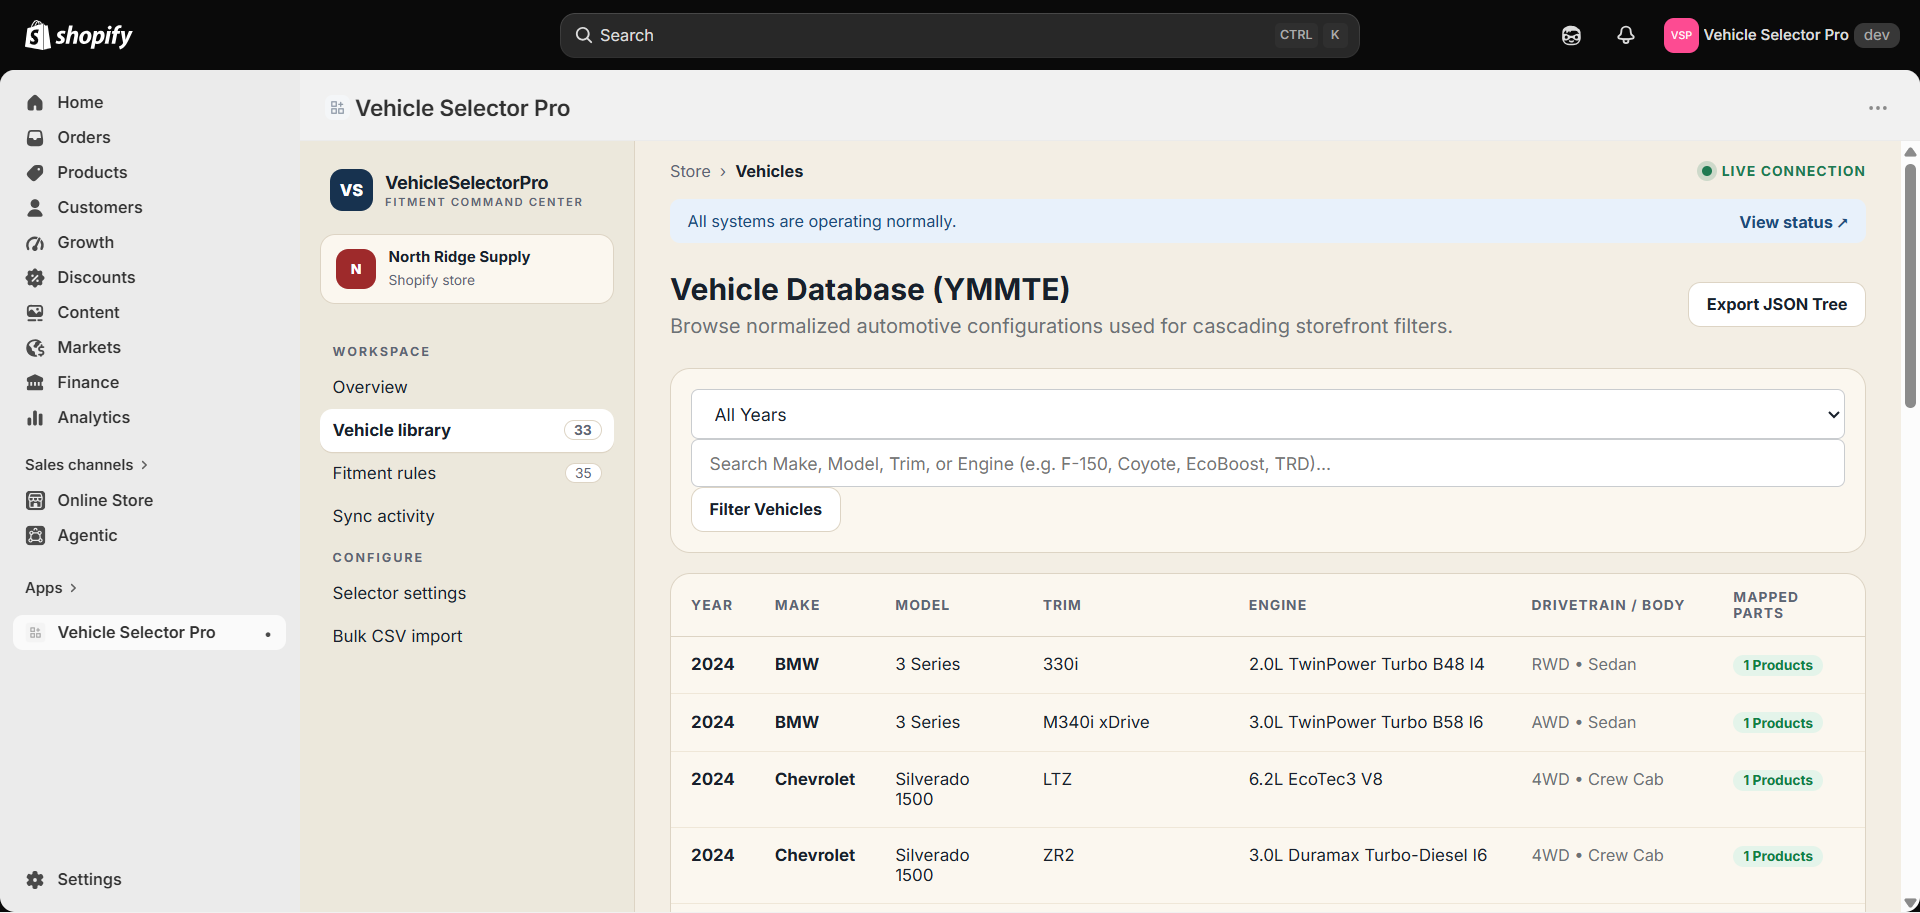
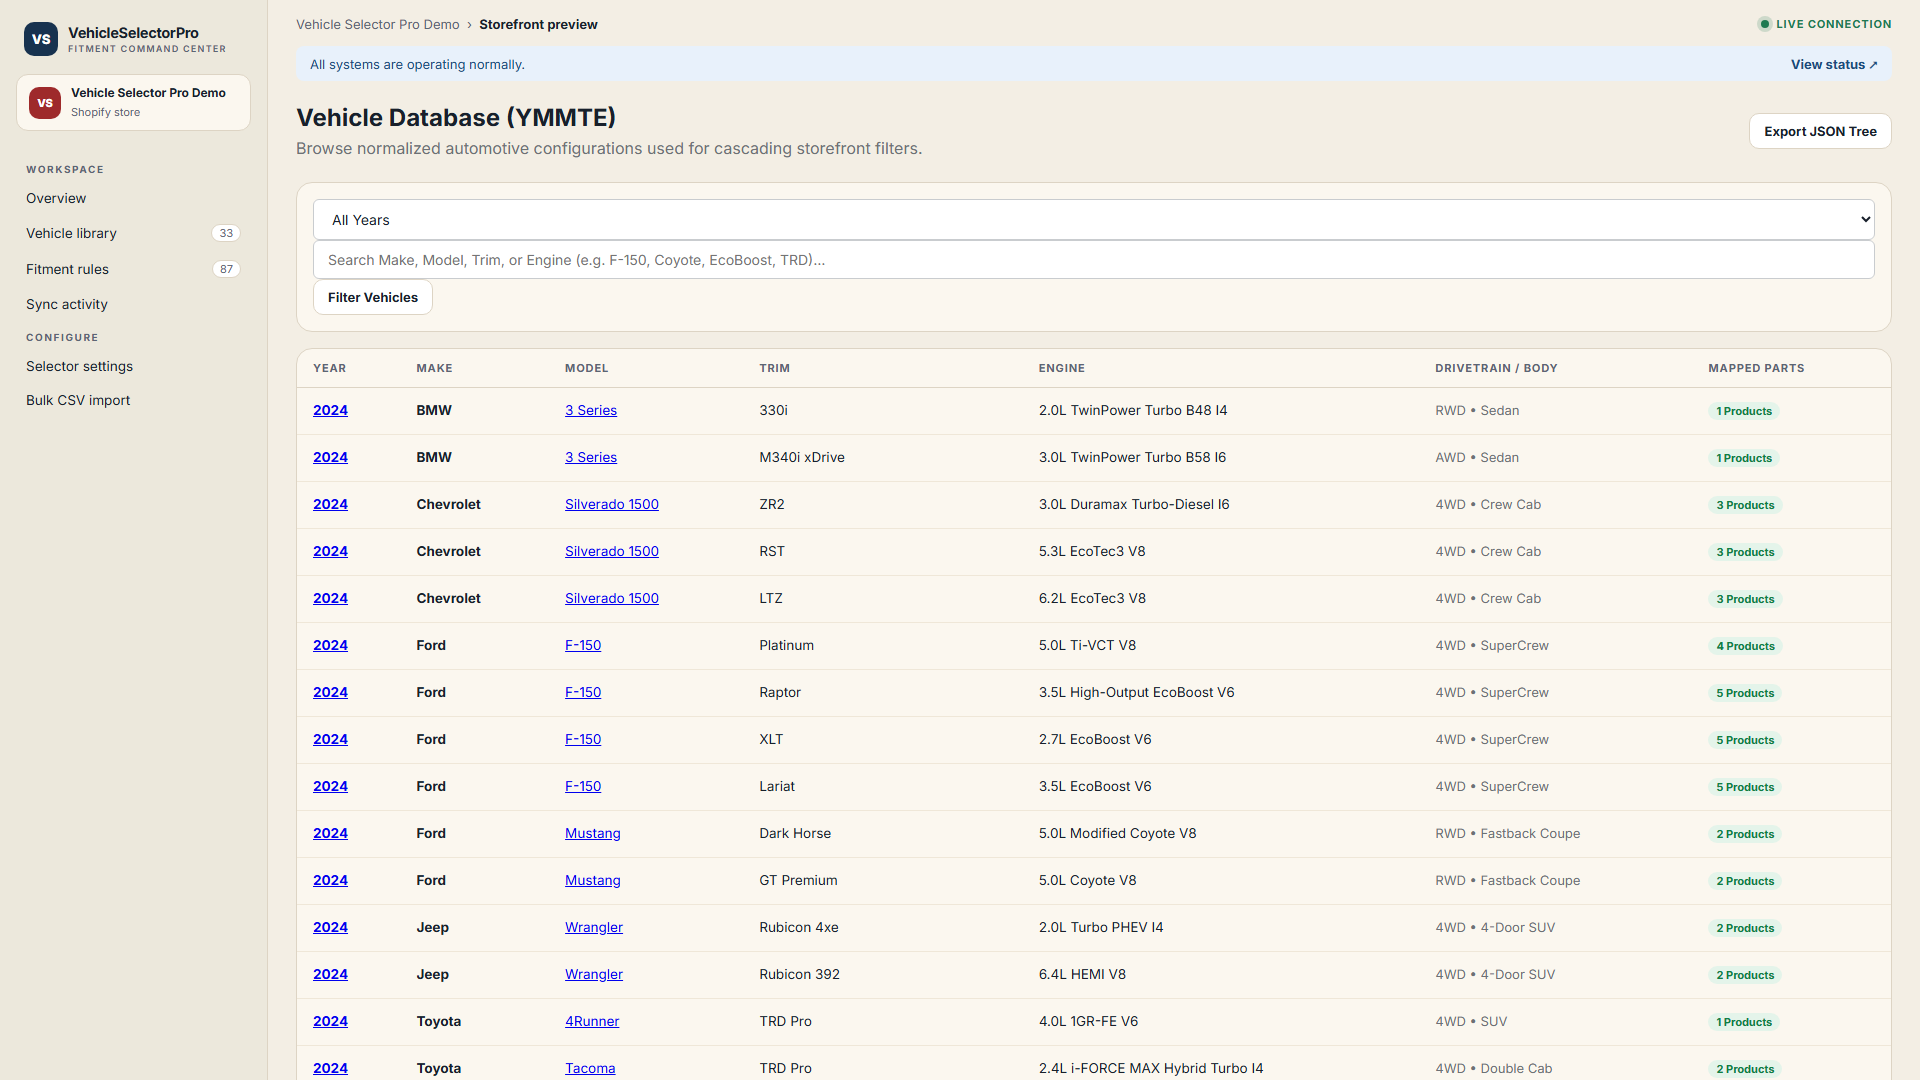
docs: refresh GitHub home page — storefront + admin screenshots, live admin preview pages
Adds a full admin preview to the demo (/demo/admin/{fitments,vehicles,settings,
imports}) so every admin page is reachable without a Shopify session, and
replaces the stale README screenshots (old 7-product catalog) with fresh live
captures: four storefront shots (home, vehicle-filtered collection, product
detail, My Garage) and six admin shots (dashboard, vehicles, fitments,
settings, bulk import, sync monitor) with accurate alt text. Video poster
refreshed to the current storefront.

🤖 Generated with Codebuff

diff --git a/app/controllers/storefront_preview_controller.rb b/app/controllers/storefront_preview_controller.rb
@@ -29,12 +29,19 @@ class StorefrontPreviewController < ApplicationController
     "APX-BRK-PAD-FRT" => "/demo-products/brake-pads.svg",
     "APX-SUSP-SHCK-JL" => "/demo-products/shocks.svg",
     "APX-EXH-TIP-MST" => "/demo-products/exhaust-tips.svg",
-    "APX-AIR-FIL-F150" => "/demo-products/air-filter.svg"
+    "APX-AIR-FIL-F150" => "/demo-products/air-filter.svg",
+    "APX-LIN-UNIV-FLR" => "/demo-products/floor-liners.svg",
+    "APX-TOW-HITCH-F150" => "/demo-products/trailer-hitch.svg",
+    "APX-BRK-PAD-RR-4RN" => "/demo-products/brake-pads-rear.svg",
+    "APX-CAI-MST-EB" => "/demo-products/intake-mustang.svg",
+    "APX-LGT-BAR-20-UNIV" => "/demo-products/light-bar.svg",
+    "APX-SUSP-LFT-4RN-2IN" => "/demo-products/leveling-kit.svg",
+    "APX-BED-MAT-TAC" => "/demo-products/bed-mat.svg"
   }.freeze
 
   def index
     @shop_name = shop&.name.presence || "Demo Auto Parts Store"
-    @products = distinct_products.first(8)
+    @products = distinct_products.first(12)
   end
 
   # My Garage page — vehicles saved by the shopper (localStorage), kept in
@@ -108,6 +115,37 @@ class StorefrontPreviewController < ApplicationController
     @sync_logs = shop.metafield_sync_logs.recent.limit(20)
     @pending_sync_count = @pending_count
     render template: "admin/sync/show", layout: "embedded_app"
+  end
+
+  def admin_fitments
+    @current_shop = shop
+    @fitments = shop.vehicle_product_fitments.includes(:vehicle).order(created_at: :desc).limit(20)
+    @page = 1
+    @per_page = 20
+    @total_count = shop.vehicle_product_fitments.count
+    render template: "admin/product_fitments/index", layout: "embedded_app"
+  end
+
+  def admin_vehicles
+    @current_shop = shop
+    @vehicles = Vehicle.active.order(year: :desc, make: :asc, model: :asc).limit(25)
+    @page = 1
+    @per_page = 25
+    @total_count = Vehicle.active.count
+    @distinct_years = Vehicle.distinct_years
+    render template: "admin/vehicles/index", layout: "embedded_app"
+  end
+
+  def admin_settings
+    @current_shop = shop
+    @settings = shop.settings
+    render template: "admin/settings/show", layout: "embedded_app"
+  end
+
+  def admin_imports
+    @current_shop = shop
+    @recent_fitments_count = shop.vehicle_product_fitments.count
+    render template: "admin/bulk_imports/index", layout: "embedded_app"
   end
 
   # Demo-only spec sheets for the seeded catalog. Details mirror typical
@@ -337,6 +375,111 @@ class StorefrontPreviewController < ApplicationController
         ["Service interval", "Clean every 50,000 miles"],
         ["Install time", "~5 minutes, no tools"],
         ["Warranty", "10 years / 100,000 miles"]
+      ]
+    },
+    "APX-LIN-UNIV-FLR" => {
+      features: [
+        "Rubberized composite liner with raised locking walls",
+        "Trim-to-fit cutting guide — one SKU covers most vehicles",
+        "Hoses clean; stays flexible from -40°F to 200°F",
+        "Two rows included (driver + passenger + rear set)"
+      ],
+      specs: [
+        ["Material", "Rubberized thermoplastic composite"],
+        ["Coverage", "Front + rear rows (trim-to-fit)"],
+        ["Cleanup", "Rinse with hose"],
+        ["Temp range", "-40°F to 200°F"],
+        ["Warranty", "Lifetime against cracking"]
+      ]
+    },
+    "APX-TOW-HITCH-F150" => {
+      features: [
+        "SAE J684 Class IV rating — 12,000 lb GTW, 1,200 lb tongue",
+        "2-inch receiver accepts ball mounts, bike racks and cargo carriers",
+        "Bolt-on to factory mount points — no drilling or welding",
+        "E-coated + powder-coated double finish resists road salt"
+      ],
+      specs: [
+        ["Class", "IV (SAE J684)"],
+        ["Receiver", "2 in square"],
+        ["Rating", "12,000 lb GTW / 1,200 lb tongue"],
+        ["Fitment", "F-150 2015+, factory mount points"],
+        ["Warranty", "Lifetime structural"]
+      ]
+    },
+    "APX-BRK-PAD-RR-4RN" => {
+      features: [
+        "Ceramic compound tuned for heavy-SUV rear-axle heat",
+        "Shimmed backing plates eliminate squeal and rattle",
+        "Chamfered edges prevent taper wear and uneven contact",
+        "Complete hardware kit for a full rear-axle service"
+      ],
+      specs: [
+        ["Compound", "Ceramic, low-dust"],
+        ["Position", "Rear axle"],
+        ["Fitment", "Toyota 4Runner 2010+"],
+        ["Includes", "Shims and hardware kit"],
+        ["Warranty", "2 years / 24,000 miles"]
+      ]
+    },
+    "APX-CAI-MST-EB" => {
+      features: [
+        "Sealed airbox design pulls cool outside air, blocks engine heat",
+        "Dyno-verified +12 hp / +16 lb-ft on the 2.3L EcoBoost",
+        "No tune required — keeps the stock ECU calibration",
+        "Washable conical filter, clean every 50k miles"
+      ],
+      specs: [
+        ["Gains", "+12 hp / +16 lb-ft @ wheels"],
+        ["Design", "Sealed airbox, rotomolded tube"],
+        ["Filter", "Washable conical, 50k-mile service"],
+        ["Fitment", "Mustang 2.3L EcoBoost 2015+"],
+        ["Warranty", "Lifetime limited (filter: 1 year)"]
+      ]
+    },
+    "APX-LGT-BAR-20-UNIV" => {
+      features: [
+        "14,400 raw lumens from 40 dual-row 5W LEDs",
+        "Combo beam: center spot for reach, outer flood for spread",
+        "IP68 die-cast aluminum housing with polycarbonate lens",
+        "Plug-and-play relay harness with illuminated switch included"
+      ],
+      specs: [
+        ["Light output", "14,400 lm (raw)"],
+        ["Beam", "Combo (spot + flood)"],
+        ["Length", "20 in dual-row"],
+        ["Ingress", "IP68 sealed"],
+        ["Warranty", "3 years against defect and moisture"]
+      ]
+    },
+    "APX-SUSP-LFT-4RN-2IN" => {
+      features: [
+        "Billet 6061-T6 strut spacers — true 2-inch front level",
+        "Keeps factory shocks and ride quality — no new hardware",
+        "Clears up to 32-inch tires after alignment",
+        "Anodized finish; install in 2–3 hours with hand tools"
+      ],
+      specs: [
+        ["Lift", "2.0 in front level"],
+        ["Material", "Billet 6061-T6, anodized"],
+        ["Tire clearance", "Up to 32 in (alignment required)"],
+        ["Fitment", "4Runner 2010+ (KDSS compatible)"],
+        ["Warranty", "Limited lifetime"]
+      ]
+    },
+    "APX-BED-MAT-TAC" => {
+      features: [
+        "Custom-molded for the Tacoma 5-ft bed — no trimming",
+        "Nonslip ribs keep cargo from shifting and sliding",
+        "High-density rubber withstands tools, pets and weather",
+        "Rolls up for cleaning; won't trap water under the mat"
+      ],
+      specs: [
+        ["Material", "High-density rubber, molded"],
+        ["Fitment", "Tacoma 2016+ 5-ft bed"],
+        ["Surface", "Nonslip rib pattern"],
+        ["Cleanup", "Roll out and hose"],
+        ["Warranty", "5 years against defect"]
       ]
     }
   }.freeze

diff --git a/config/routes.rb b/config/routes.rb
@@ -98,6 +98,10 @@ Rails.application.routes.draw do
   get "demo/garage", to: "storefront_preview#garage"
   get "demo/admin", to: "storefront_preview#admin_dashboard"
   get "demo/admin/sync", to: "storefront_preview#admin_sync"
+  get "demo/admin/fitments", to: "storefront_preview#admin_fitments"
+  get "demo/admin/vehicles", to: "storefront_preview#admin_vehicles"
+  get "demo/admin/settings", to: "storefront_preview#admin_settings"
+  get "demo/admin/imports", to: "storefront_preview#admin_imports"
 
   # Public read-only JSON API for the demo storefront widget. The real
   # storefront uses the HMAC-signed App Proxy; the demo is served directly by

diff --git a/README.md b/README.md
@@ -52,29 +52,59 @@ Automotive merchants assign **Year / Make / Model / Trim / Engine** fitment data
 
 ## Screenshots
 
+### Storefront (live demo)
+
 <div align="center">
 
-**Merchant Admin Dashboard**
+**Home — cascading Year / Make / Model / Trim / Engine widget with shop-by-category and featured parts**
 
-<img src="demo/autoplay/frames_live/01_dashboard.png" alt="Admin dashboard with 100% catalog coverage, 7 mapped products, and live sync status" width="100%">
+<img src="demo/autoplay/frames_live/04_storefront_home.png" alt="Storefront home with hero, cascading vehicle selector widget, category tiles, and featured product cards" width="100%">
 
-**Vehicle Library (YMMTE Database)**
+**Vehicle-filtered results — 2023 Ford F-150 with Guaranteed Exact Fit badges**
 
-<img src="demo/autoplay/frames_live/02_vehicles.png" alt="Vehicle database with 33 vehicles across BMW, Chevrolet, Ford, and Jeep with cascading filters" width="100%">
+<img src="demo/autoplay/frames_live/07_storefront_collection.png" alt="Collection page filtered to 2023 Ford F-150 showing matching parts with Guaranteed Exact Fit badges" width="100%">
 
-**Product Fitment Matrix**
+**Product detail — spec sheet, verified-fitment chips, and live fitment badge**
 
-<img src="demo/autoplay/frames_live/03_fitment_rules.png" alt="Fitment rules matrix with 35 product-to-vehicle mappings, sync status, and edit controls" width="100%">
+<img src="demo/autoplay/frames_live/08_storefront_pdp.png" alt="Product detail page with photo, price, engineered features, specifications table, and verified fitment list" width="100%">
 
-**Widget Configuration**
+**My Garage — vehicles saved across pages in localStorage**
 
-<img src="demo/autoplay/frames_live/05_settings.png" alt="Widget and Garage configuration with brand color, selector depth, and My Garage settings" width="100%">
-
-**Bulk CSV Import**
-
-<img src="demo/autoplay/frames_live/06_bulk_imports.png" alt="Bulk CSV fitment import with file upload and paste options" width="100%">
+<img src="demo/autoplay/frames_live/09_storefront_garage.png" alt="My Garage page listing the shopper's saved vehicles with the selector widget above" width="100%">
 
 </div>
+
+### Merchant admin (live preview)
+
+<div align="center">
+
+**Dashboard — catalog coverage, mapped products, and live sync status**
+
+<img src="demo/autoplay/frames_live/01_dashboard.png" alt="Admin dashboard with catalog coverage percentage, mapped products, pending/synced fitment counts, and recent sync logs" width="100%">
+
+**Vehicle library — the YMMTE database with cascading filters**
+
+<img src="demo/autoplay/frames_live/02_vehicles.png" alt="Vehicle library with 33 Year/Make/Model/Trim/Engine configurations across BMW, Chevrolet, Ford, and Jeep" width="100%">
+
+**Product fitment matrix — every product-to-vehicle mapping with sync status**
+
+<img src="demo/autoplay/frames_live/03_fitment_rules.png" alt="Fitment matrix with 87 product-to-vehicle mappings, universal fits, sync badges, and edit controls" width="100%">
+
+**Widget & Garage configuration**
+
+<img src="demo/autoplay/frames_live/05_settings.png" alt="Widget settings with brand color, selector depth, button labels, and My Garage options" width="100%">
+
+**Bulk CSV import**
+
+<img src="demo/autoplay/frames_live/06_bulk_imports.png" alt="Bulk fitment CSV import with file upload and paste options" width="100%">
+
+**Metafield sync monitor**
+
+<img src="demo/autoplay/frames_live/10_admin_sync.png" alt="Sync monitor showing background metafield synchronization progress" width="100%">
+
+</div>
+
+Every screenshot above is a live capture of the running app — see the **[live storefront demo](https://vehicle-selector-pro.fly.dev/demo)** and the **[live admin preview](https://vehicle-selector-pro.fly.dev/demo/admin)**.
 
 ---
 
@@ -147,7 +177,7 @@ Full system diagrams, data model, and request lifecycles: **[docs/ARCHITECTURE.m
 
 **[Live storefront demo →](https://vehicle-selector-pro.fly.dev/demo)** — cascading Year/Make/Model/Trim/Engine widget with guaranteed-fit badges against live data.
 
-**[Live admin preview →](https://vehicle-selector-pro.fly.dev/demo/admin)** — fitment matrix, vehicle library, sync monitor, and bulk CSV import.
+**[Live admin preview →](https://vehicle-selector-pro.fly.dev/demo/admin)** — dashboard, fitment matrix ([fitments](https://vehicle-selector-pro.fly.dev/demo/admin/fitments)), vehicle library ([vehicles](https://vehicle-selector-pro.fly.dev/demo/admin/vehicles)), widget settings ([settings](https://vehicle-selector-pro.fly.dev/demo/admin/settings)), bulk CSV import ([imports](https://vehicle-selector-pro.fly.dev/demo/admin/imports)), and the sync monitor ([sync](https://vehicle-selector-pro.fly.dev/demo/admin/sync)).
 
 ### Local development
 
